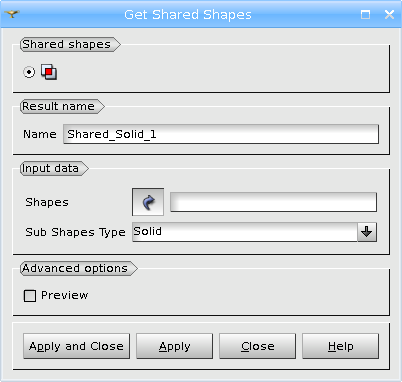
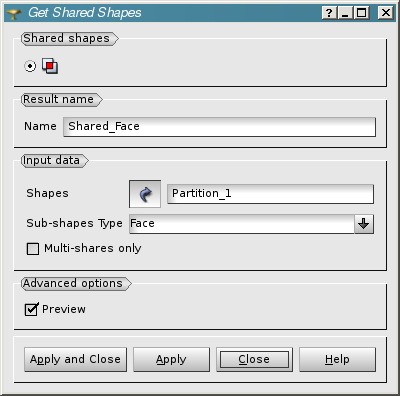
0022747: [EDF] Improvement of Get Shared Shapes operation Additional improvements: - Add multi-share parameter to allow searching not sub-shapes which are shared either by all or by couples of input shapes - Avoid raising exception if no sub-shapes is found; return empty result instead - Add test sc

diff --git a/src/GEOMGUI/GEOM_msg_fr.ts b/src/GEOMGUI/GEOM_msg_fr.ts
@@ -6883,6 +6883,10 @@ Voulez-vous en créer un nouveau ?</translation>
         <source>GEOM_SHARED_SHAPE</source>
         <translation>Partagé_%1</translation>
     </message>
+    <message>
+        <source>GEOM_SHARED_SHAPES_MULTISHARE</source>
+        <translation type="unfinished">Multi-shares only</translation>
+    </message>
 </context>
 <context>
     <name>GEOMToolsGUI_PublishDlg</name>

diff --git a/src/GEOMGUI/GEOM_msg_en.ts b/src/GEOMGUI/GEOM_msg_en.ts
@@ -6955,6 +6955,10 @@ Do you want to create new material?</translation>
         <source>GEOM_SHARED_SHAPE</source>
         <translation>Shared_%1</translation>
     </message>
+    <message>
+        <source>GEOM_SHARED_SHAPES_MULTISHARE</source>
+        <translation>Multi-shares only</translation>
+    </message>
 </context>
 <context>
     <name>GEOMToolsGUI_PublishDlg</name>

diff --git a/src/GEOMGUI/GEOM_msg_ja.ts b/src/GEOMGUI/GEOM_msg_ja.ts
@@ -6860,6 +6860,10 @@
       <source>GEOM_SHARED_SHAPE</source>
       <translation>Shared_%1</translation>
     </message>
+    <message>
+        <source>GEOM_SHARED_SHAPES_MULTISHARE</source>
+        <translation type="unfinished">Multi-shares only</translation>
+    </message>
   </context>
   <context>
     <name>GEOMToolsGUI_PublishDlg</name>

diff --git a/src/GEOM_SWIG/geomBuilder.py b/src/GEOM_SWIG/geomBuilder.py
@@ -4920,33 +4920,49 @@ class geomBuilder(object, GEOM._objref_GEOM_Gen):
             self._autoPublish(aList, theName, "shared")
             return aList
 
-        ## Get all sub-shapes, shared by all shapes in the list <VAR>theShapes</VAR>.
+        ## Get sub-shapes, shared by input shapes.
         #  @param theShapes Either a list or compound of shapes to find common sub-shapes of.
-        #  @param theShapeType Type of sub-shapes to be retrieved (see ShapeType())
+        #  @param theShapeType Type of sub-shapes to be retrieved (see ShapeType()).
+        #  @param theMultiShare Specifies what type of shares should be checked:
+        #         - @c True (default): search sub-shapes from 1st input shape shared with all other input shapes;
+        #         - @c False: causes to search sub-shapes shared between couples of input shapes.
         #  @param theName Object name; when specified, this parameter is used
         #         for result publication in the study. Otherwise, if automatic
         #         publication is switched on, default value is used for result name.
         #
-        #  @return List of objects, that are sub-shapes of all given shapes.
+        #  @note If @a theShapes contains single compound, the shares between all possible couples of 
+        #        its top-level shapes are returned; otherwise, only shares between 1st input shape
+        #        and all rest input shapes are returned.
         #
-        #  @ref swig_GetSharedShapes "Example"
+        #  @return List of all found sub-shapes.
+        #
+        #  Examples:
+        #  - @ref tui_shared_shapes "Example 1"
+        #  - @ref swig_GetSharedShapes "Example 2"
         @ManageTransactions("ShapesOp")
-        def GetSharedShapesMulti(self, theShapes, theShapeType, theName=None):
+        def GetSharedShapesMulti(self, theShapes, theShapeType, theMultiShare=True, theName=None):
             """
-            Get all sub-shapes, shared by all shapes in the list theShapes.
+            Get sub-shapes, shared by input shapes.
 
             Parameters:
                 theShapes Either a list or compound of shapes to find common sub-shapes of.
-                theShapeType Type of sub-shapes to be retrieved (see geompy.ShapeType)
+                theShapeType Type of sub-shapes to be retrieved (see geompy.ShapeType).
+                theMultiShare Specifies what type of shares should be checked:
+                  - True (default): search sub-shapes from 1st input shape shared with all other input shapes;
+                  - False: causes to search sub-shapes shared between couples of input shapes.
                 theName Object name; when specified, this parameter is used
                         for result publication in the study. Otherwise, if automatic
                         publication is switched on, default value is used for result name.
 
+            Note: if theShapes contains single compound, the shares between all possible couples of 
+                  its top-level shapes are returned; otherwise, only shares between 1st input shape
+                  and all rest input shapes are returned.
+
             Returns:
-                List of GEOM.GEOM_Object, that are sub-shapes of all given shapes.
+                List of all found sub-shapes.
             """
             # Example: see GEOM_TestOthers.py
-            aList = self.ShapesOp.GetSharedShapesMulti(ToList(theShapes), theShapeType)
+            aList = self.ShapesOp.GetSharedShapesMulti(ToList(theShapes), theShapeType, theMultiShare)
             RaiseIfFailed("GetSharedShapesMulti", self.ShapesOp)
             self._autoPublish(aList, theName, "shared")
             return aList

diff --git a/doc/salome/examples/basic_operations_ex04.py b/doc/salome/examples/basic_operations_ex04.py
@@ -1,0 +1,40 @@
+# Get shared sub-shapes
+
+import salome
+salome.salome_init()
+import GEOM
+from salome.geom import geomBuilder
+geompy = geomBuilder.New(salome.myStudy)
+import SALOMEDS
+
+# create a box and partigion it by two planes
+box = geompy.MakeBoxDXDYDZ(200, 200, 200)
+p = geompy.MakeVertex(100, 100, 100)
+v1 = geompy.MakeVectorDXDYDZ(1, 1, 0)
+v2 = geompy.MakeVectorDXDYDZ(1, -1, 0)
+pln1 = geompy.MakePlane(p, v1, 2000)
+pln2 = geompy.MakePlane(p, v2, 2000)
+partition = geompy.MakePartition([box], [pln1, pln2])
+
+# extract solids from result of partition
+solids = geompy.SubShapeAllSorted(partition, geompy.ShapeType['SOLID'])
+
+# get shared shapes from the partition (compound of 4 solids)
+# a) faces that are shared by all 4 solids (0 found)
+pF_T = geompy.GetSharedShapesMulti(partition, geompy.ShapeType['FACE'])
+# b) faces that are shared by any couple of solids (4 found)
+pF_F = geompy.GetSharedShapesMulti(partition, geompy.ShapeType['FACE'], False)
+# c) edges that are shared by all 4 solids (1 found)
+pE_T = geompy.GetSharedShapesMulti(partition, geompy.ShapeType['EDGE'])
+# d) edges that are shared by any couple of solids (13 found)
+pE_F = geompy.GetSharedShapesMulti(partition, geompy.ShapeType['EDGE'], False)
+
+# get shared shapes from the list of solids
+# a) faces that are shared by all 4 solids (0 found)
+sF_T = geompy.GetSharedShapesMulti(solids, geompy.ShapeType['FACE'])
+# b) faces that are shared by 1st/2nd, 1st/3rd and 1st/4th solids (2 found)
+sF_F = geompy.GetSharedShapesMulti(solids, geompy.ShapeType['FACE'], False)
+# c) edges that are shared by all 4 solids (1 found)
+sE_T = geompy.GetSharedShapesMulti(solids, geompy.ShapeType['EDGE'])
+# d) edges that are shared by 1st/2nd, 1st/3rd and 1st/4th solids (7 found)
+sE_F = geompy.GetSharedShapesMulti(solids, geompy.ShapeType['EDGE'], False)

diff --git a/src/GEOM_I/GEOM_IShapesOperations_i.cc b/src/GEOM_I/GEOM_IShapesOperations_i.cc
@@ -1155,7 +1155,8 @@ GEOM::ListOfGO* GEOM_IShapesOperations_i::GetSharedShapes
 //=============================================================================
 GEOM::ListOfGO* GEOM_IShapesOperations_i::GetSharedShapesMulti
                                           (const GEOM::ListOfGO& theShapes,
-                                           const CORBA::Long     theShapeType)
+                                           const CORBA::Long     theShapeType,
+                                           CORBA::Boolean        theMultiShare)
 {
   //Set a not done flag
   GetOperations()->SetNotDone();
@@ -1168,7 +1169,7 @@ GEOM::ListOfGO* GEOM_IShapesOperations_i::GetSharedShapesMulti
     return aSeq._retn();
 
   Handle(TColStd_HSequenceOfTransient) aHSeq =
-    GetOperations()->GetSharedShapes(aShapes, theShapeType);
+    GetOperations()->GetSharedShapes(aShapes, theShapeType, theMultiShare);
   if (!GetOperations()->IsDone() || aHSeq.IsNull())
     return aSeq._retn();
 
